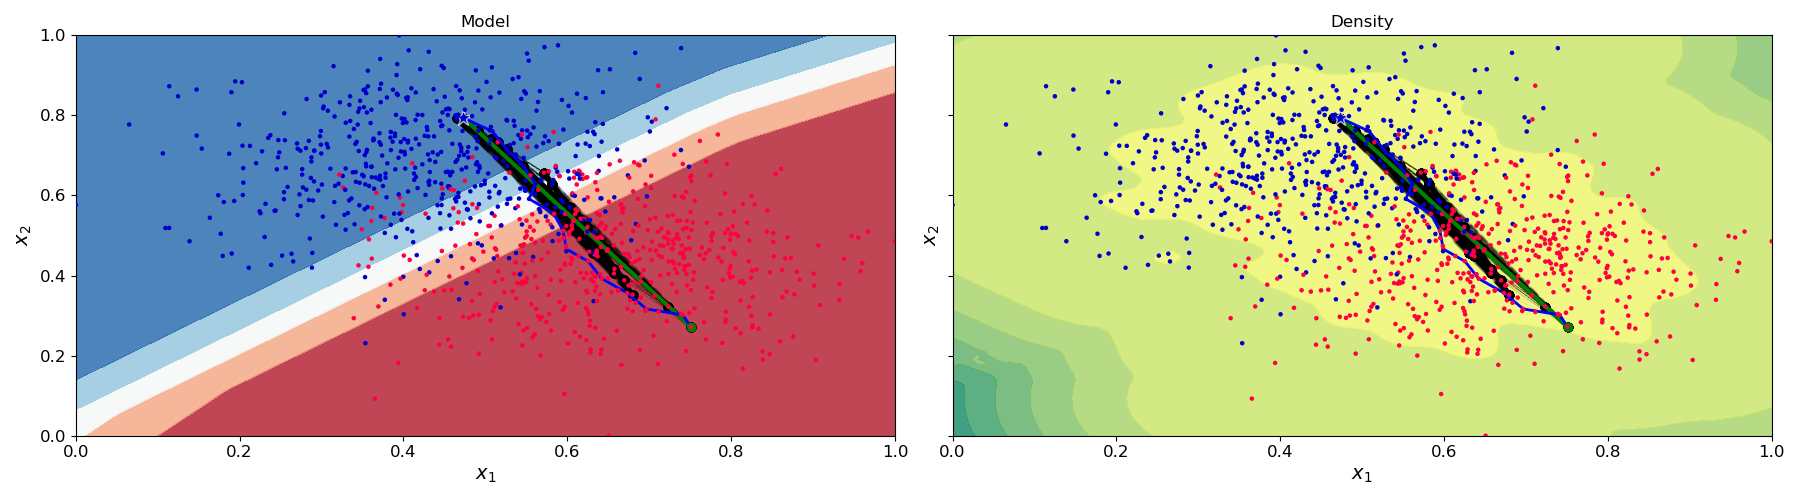
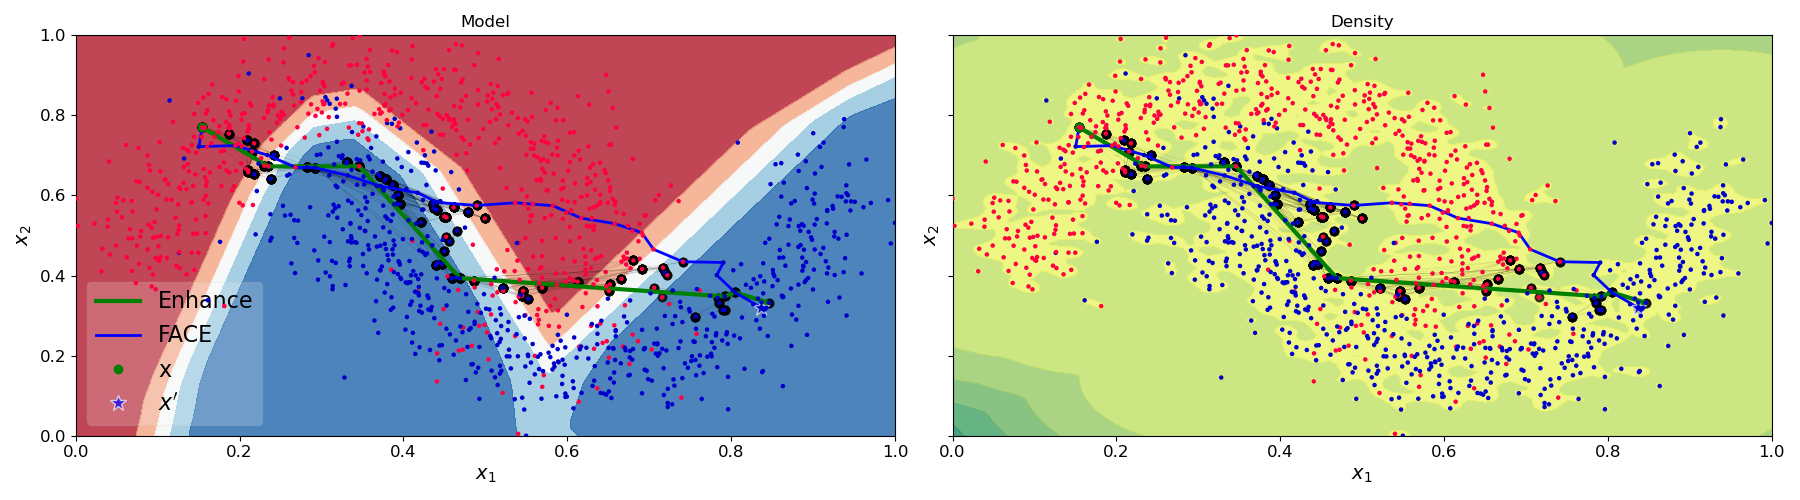
Allow edits to graph to meet probability criteria

diff --git a/compare.py b/compare.py
@@ -12,19 +12,19 @@ import warnings
 warnings.filterwarnings("ignore")
 
 # parameters for locating counterfactual and path
-k = 20
+k = 15
 thresh = 0.95
 dist = 0.05
-line = 25
+line = 10
 # parameters for data generation
 seed = 10
 samples = 1000
-noise = 0.1
+noise = 0.15
 # parameters for model creation
-band_width = 0.025
+band_width = 0.01
 
 # create data
-generator = datasets.create_blobs  # get data generator
+generator = datasets.creat_custom  # get data generator
 data = generator(samples, seed, noise)  # generate data
 X = data.iloc[:, :2]  # ensure data is 2d
 y = data.y  # get target
@@ -35,9 +35,9 @@ dense = KernelDensity(kernel='gaussian', bandwidth=band_width).fit(X)
 X1 = data[["x1", "x2"]]
 
 # the factual point
-factual = 264
+factual = 262
 # the factual point
-cf = 250
+cf = 269
 
 start_total = time.time()
 # initialise Local-FACE model
@@ -48,11 +48,10 @@ test = dense.score([Xs[factual, :]])
 # generate graph nodes through data from factual to counterfactual
 print(r'Creating graph G (Exploit)...')
 start_exploit = time.time()
-best_steps, G = face.generate_graph(Xs[factual, :], Xs[cf, :], k, thresh, early=False)
+best_steps, G = face.generate_graph(Xs[factual, :], Xs[cf, :], k, thresh, test, line, early=False, method='strict')
 # create edges between viable points and calculate the weights
 print('Exploit time taken: {} seconds'.format(np.round(time.time() - start_exploit, 2)))
 print('---------------------------------')
-
 # calculate shortest path through G from factual to counterfactual
 print(r"Finding shortest path from x to x' through G (Enhance)...")
 start_enhance = time.time()
@@ -78,11 +77,12 @@ ax[0] = plot_dataset(ax[0], data, size=5)
 ax[0] = plot_graph(ax[0], X1, model, best_steps, G, shortest_path)
 ax[0].set_xlim([0, 1])
 ax[0].set_ylim([0, 1])
-ax[0].plot(best_steps[shortest_path, 0], best_steps[shortest_path, 1], '-g', label='Local-FACE', linewidth=2)
+ax[0].plot(best_steps[shortest_path, 0], best_steps[shortest_path, 1], '-g', linewidth=2)
 ax[0].plot(Xs[shortest_path1, 0], Xs[shortest_path1, 1], '-b', label='FACE', linewidth=2)
-ax[0].plot(Xs[factual, 0], Xs[factual, 1], 'go', label='factual')
+ax[0].plot(Xs[factual, 0], Xs[factual, 1], 'go', label='x')
 ax[0].plot(best_steps[-1, 0], best_steps[-1, 1], '*b', label='$x^\prime$', markersize=12, alpha=0.7, markeredgecolor='white')
 ax[0].title.set_text('Model')
+ax[0].legend(loc='lower left', fancybox=True, framealpha=0.2, prop={'size': 16})
 
 ax[1] = plot_density(ax[1], X1, dense, levels=5)
 ax[1] = plot_dataset(ax[1], data, size=5)

diff --git a/local_face/local_face.py b/local_face/local_face.py
@@ -121,6 +121,7 @@ class LocalFace:
         Returns: n by p array of p steps to get from x0 to a valid counterfactual and a graph of the steps
         """
         xt = x0
+        self.prob = tol
         steps = np.zeros((1, 2))
         steps[0] = x0
         # set up tree for k nearest neighbours
@@ -202,26 +203,27 @@ class LocalFace:
         """
         Create edges between viable nodes and calculate weight
         Args:
-            tol: minimum probability density for viable path
-            sample: samples over linear connection between Xi and Xj
-
         Returns: Connected graph
-
         """
-        self.prob = tol
+        """self.G = nx.Graph()
         for i in range(len(self.steps)):
-            for j in range(len(self.steps)):
+            self.G.add_node(i)"""
+
+        for i in range(len(self.steps)):
+            for j in range(i):
                 if np.linalg.norm(self.steps[i] - self.steps[j]) > 0:
                     samples = np.array([np.linspace(self.steps[i][0], self.steps[j][0], sample + 1),
                                         np.linspace(self.steps[i][1], self.steps[j][1], sample + 1)]).T
-                    score = np.exp(self.dense.score_samples(samples))
-                    test = np.exp(np.sum(score) / (sample + 1))
+                    score = self.dense.score_samples(samples)
                     if method == 'avg':
-                        w = np.linalg.norm(self.steps[i] - self.steps[j], ord=2) * test
-                        self.G.add_edge(i, j, weight=w)
+                        test = (np.sum(score) / (sample + 1))
+                        if test > tol:
+                            w = np.linalg.norm(self.steps[i] - self.steps[j], ord=2) / test
+                            self.G.add_edge(i, j, weight=w)
                     elif method == 'strict':
                         if all(k >= tol for k in score):
-                            w = np.linalg.norm(self.steps[i] - self.steps[j], ord=2) * test
+                            test = (np.sum(score) / (sample + 1))
+                            w = np.linalg.norm(self.steps[i] - self.steps[j], ord=2) / test
                             self.G.add_edge(i, j, weight=w)
                     else:
                         print('no method selected')
